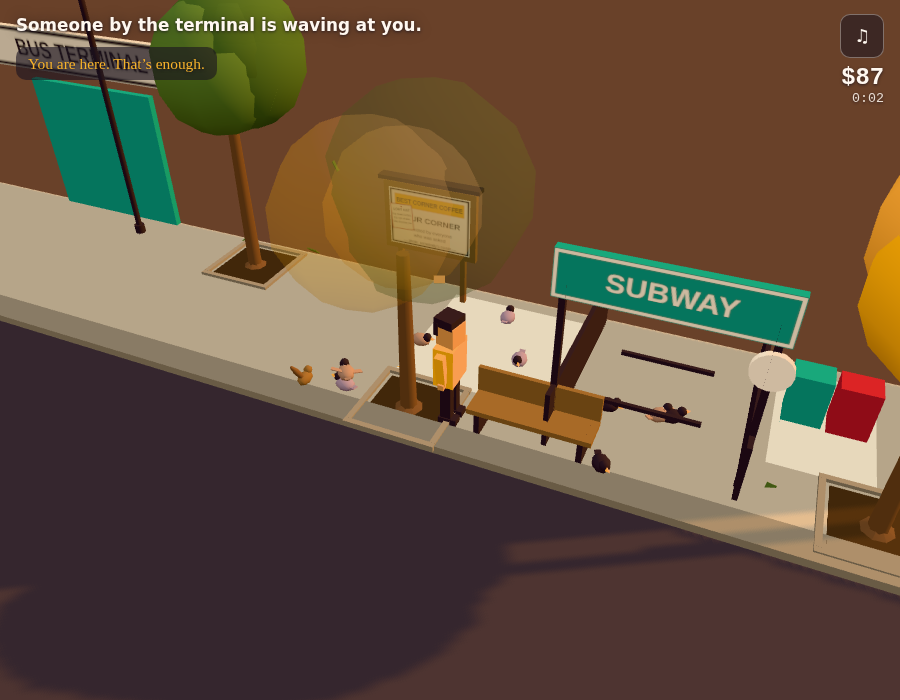
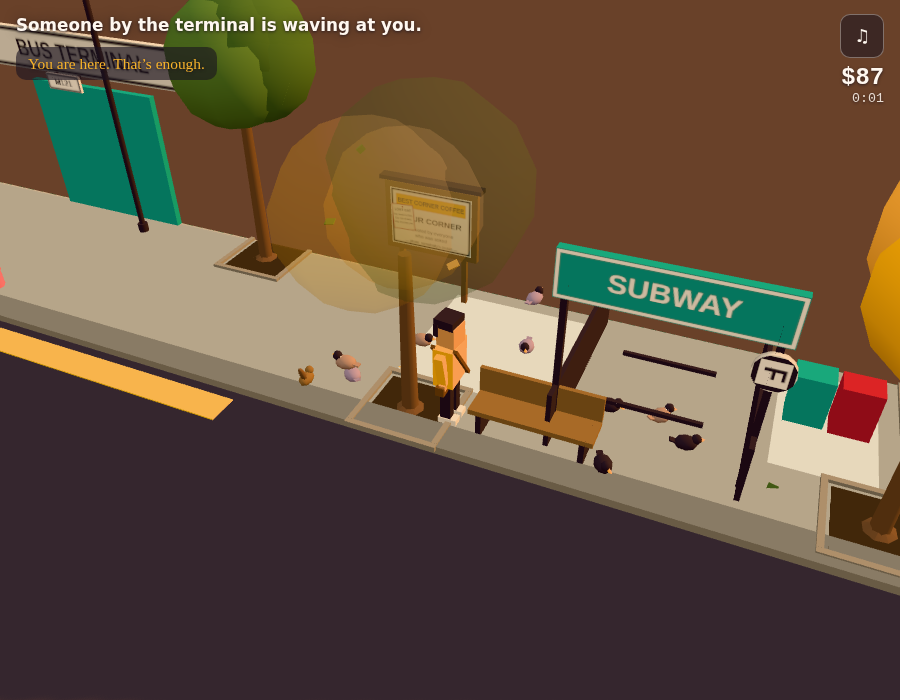
merge: Agent-2 solidity onto the traffic-brain architecture — main agent's fe4a9b1 wins conflicts; this branch keeps stranger/Sal/familiar bodies, ported solidity tests, probe-solid evidence harness; gates: typecheck clean, 243 tests, e2e 104/104 (582s), probe-solid 4/4, perf delta 0/0/0

diff --git a/web-three/tests/solidity.test.ts b/web-three/tests/solidity.test.ts
@@ -69,7 +69,7 @@ describe('vertical fall substepping (audit Q6: tunneling at low fps)', () => {
 /** One walker on a straight loop, plus the harness pieces Pedestrians needs. */
 function oneWalker(
   path: Array<[number, number]>,
-  resolveCircles: Array<[number, number, number]> = [],
+  routines: Array<Array<{ x: number; z: number; dwell: number; faceTo: [number, number] }>> = [],
 ): { peds: Pedestrians; group: THREE.Group } {
   const scene = new THREE.Scene();
   const peds = new Pedestrians(
@@ -79,37 +79,40 @@ function oneWalker(
     42,
     [path],
     [],
-    resolveCircles,
+    routines,
   );
   return { peds, group: peds.group };
 }
 
-describe('ambient walkers are bodies (audit Q2/Q3)', () => {
-  it('each walker owns a person-kind AABB that tracks their position', () => {
+describe('ambient walkers are bodies (audit Q2/Q3 — merged onto the traffic-brain API)', () => {
+  it('each walker owns a body AABB that tracks their position once updated', () => {
     const { peds } = oneWalker([[0, 6], [10, 6]]);
-    expect(peds.colliders).toHaveLength(1);
-    expect(peds.colliders[0].kind).toBe('person');
+    expect(peds.walkColliders).toHaveLength(1);
+    expect(peds.walkColliders[0].minY).toBe(-999); // parked until first update
     for (let i = 0; i < 30; i++) peds.update(1 / 60);
-    const b = peds.colliders[0];
+    const b = peds.walkColliders[0];
     const g = peds.group.children[0];
-    expect(b.minX).toBeCloseTo(g.position.x - 0.28, 3);
-    expect(b.maxX).toBeCloseTo(g.position.x + 0.28, 3);
-    expect(b.minZ).toBeCloseTo(g.position.z - 0.28, 3);
-    expect(b.maxY).toBeCloseTo(g.position.y + 1.7, 3);
+    expect(b.minX).toBeCloseTo(g.position.x - 0.28, 2);
+    expect(b.maxX).toBeCloseTo(g.position.x + 0.28, 2);
+    expect(b.minZ).toBeCloseTo(g.position.z - 0.28, 2);
+    expect(b.minY).toBe(0);
+    expect(b.maxY).toBeCloseTo(1.7, 2);
   });
 
-  it('the safety net unwinds a walker parked inside furniture — capped, not snapped', () => {
-    // walker's whole loop sits 5 cm off a trash can's resolve center (r 0.36)
-    // — steering never gets a say (dt 0), so only the net can free them
-    const { peds } = oneWalker([[2.05, -7.45]], [[2, -7.45, 0.36]]);
-    const b = peds.colliders[0];
-    for (let i = 0; i < 40; i++) peds.update(0);
-    const min = 0.36 + 0.28;
-    const dx = (b.minX + b.maxX) / 2 - 2;
-    const dz = (b.minZ + b.maxZ) / 2 - (-7.45);
-    expect(Math.hypot(dx, dz)).toBeGreaterThanOrEqual(min - 0.001);
-    // settled exactly at the rim — the cap means no overshoot, no snap
-    expect(Math.hypot(dx, dz)).toBeLessThanOrEqual(min + 0.001);
+  it('a walker caught inside the player is yielded out — capped, then re-enforced', () => {
+    // the walker's whole loop parks them inside the player's circle; with dt 0
+    // the steering never runs, so only the resolve net can free them. Their
+    // guarantee: the walker yields (the player is never shoved).
+    const { peds } = oneWalker([[2.05, -6.0]]);
+    const player = { x: 2, z: -6.0 };
+    for (let i = 0; i < 40; i++) peds.update(0, player);
+    const b = peds.walkColliders[0];
+    const bx = (b.minX + b.maxX) / 2, bz = (b.minZ + b.maxZ) / 2;
+    // PED_REACH ≈ 0.396 + PLAYER_R 0.35 → the walker's center must sit
+    // outside ~0.746 m from the player's center (the sweep-back re-check
+    // runs after the sidestep, so the box can never park inside the capsule)
+    const d = Math.hypot(bx - player.x, bz - player.z);
+    expect(d).toBeGreaterThanOrEqual(0.35 + 0.28 * Math.SQRT2 - 0.05);
   });
 
   it('two walkers left overlapping separate instead of stacking', () => {
@@ -127,20 +130,30 @@ describe('ambient walkers are bodies (audit Q2/Q3)', () => {
     );
     // drive them onto the same spot by hand, then let the net act
     for (let i = 0; i < 10; i++) peds.update(0);
-    const a = peds.colliders[0];
-    const b = peds.colliders[1];
+    const a = peds.walkColliders[0];
+    const b = peds.walkColliders[1];
     const ax = (a.minX + a.maxX) / 2, az = (a.minZ + a.maxZ) / 2;
     const bx = (b.minX + b.maxX) / 2, bz = (b.minZ + b.maxZ) / 2;
-    expect(Math.hypot(ax - bx, az - bz)).toBeGreaterThanOrEqual(0.56 - 0.01);
+    expect(Math.hypot(ax - bx, az - bz)).toBeGreaterThanOrEqual(0.6 - 0.01); // 2 × PED_R 0.3
   });
 
   it('a walker well clear of everything is left exactly where steering put them', () => {
-    const { peds } = oneWalker([[20, 6], [30, 6]], [[2, -7.45, 0.36]]);
+    const { peds } = oneWalker([[20, 6], [30, 6]]);
     peds.update(1 / 60);
     const before = { x: peds.group.children[0].position.x, z: peds.group.children[0].position.z };
     peds.update(0); // resolve-only pass: nothing to fix → nothing moves
     const after = peds.group.children[0].position;
     expect(after.x).toBeCloseTo(before.x, 4);
     expect(after.z).toBeCloseTo(before.z, 4);
+  });
+
+  it('the band clamp keeps a walker on the block — no body leaves the world', () => {
+    const { peds } = oneWalker([[0, 6], [10, 6]]);
+    // a walker pinned (dwelling) far off-lane is still clamped into the band
+    peds.update(1 / 60);
+    const b = peds.walkColliders[0];
+    const bx = (b.minX + b.maxX) / 2, bz = (b.minZ + b.maxZ) / 2;
+    expect(bx).toBeLessThanOrEqual(47.2);
+    expect(Math.abs(bz)).toBeLessThanOrEqual(7.5);
   });
 });

diff --git a/web-three/src/world/World.ts b/web-three/src/world/World.ts
@@ -87,6 +87,11 @@ export class World {
   /** The transient customer at the cart — Game syncs this one (it owns
    *  spawning/removal); World.update handles the persistent cast. */
   readonly customerCollider: AABB;
+  // Agent-2 solidity (doc 35 Q2): the rest of the walking cast gets bodies
+  // too — the stranger, Sal and the familiar face were ghosts in the audit.
+  readonly strangerCollider: AABB;
+  readonly salCollider: AABB;
+  readonly familiarCollider: AABB;
   /** The Day-3 stool's body — parked underground until the purchase makes
    *  it real; synced in updateDynamics like the cast. */
   readonly stoolCollider: AABB;
@@ -625,7 +630,13 @@ export class World {
     this.idrisCollider = boxFromCenter(-2, 0.85, -4.6, 0.56, 1.7, 0.56);
     this.kidCollider = boxFromCenter(15, 0.7, 6.35, 0.5, 1.4, 0.5);
     this.customerCollider = boxFromCenter(0, -999.5, 0, 0.56, 1.7, 0.56);
-    this.colliders.push(this.rosaCollider, this.idrisCollider, this.kidCollider, this.customerCollider);
+    // stranger/Sal/familiar — parked underground until their beats make them
+    // visible (the customer's trick); updateDynamics syncs them with the cast
+    this.strangerCollider = boxFromCenter(0, -999.5, 0, 0.56, 1.7, 0.56);
+    this.salCollider = boxFromCenter(-7, 0.85, 7.85, 0.56, 1.7, 0.56);
+    this.familiarCollider = boxFromCenter(0, -999.5, 0, 0.56, 1.7, 0.56);
+    this.colliders.push(this.rosaCollider, this.idrisCollider, this.kidCollider, this.customerCollider,
+      this.strangerCollider, this.salCollider, this.familiarCollider);
 
     // ---------------- cast (Rosa, Idris, the kid) ---------------------------
     this.rosa = this.spawnActor('Rosa', -27, 0.05, 6.8, { jacket: 0xff6b6b, pants: PAL.ink, skin: 0xe8b08e, hair: 0x9a938c, style: 'bun', shawl: 0x7a5c68 });
@@ -3203,6 +3214,10 @@ export class World {
     // the barrier leaves on Day 4 — its body leaves with it (a box at y
     // -999 can't overlap anything: the cheapest "gone")
     this.syncPersonCollider(this.barrierCollider, this.barrier, 0.85, 0.9);
+    // the rest of the walking cast (Agent-2): no ghosts on the block
+    this.syncPersonCollider(this.strangerCollider, this.stranger);
+    this.syncPersonCollider(this.salCollider, this.sal);
+    this.syncPersonCollider(this.familiarCollider, this.familiar);
     if (player) this.updateDistricts(player.x, player.z);
     this.updateTaxi(dt, player, extra);
   }

diff --git a/web-three/src/game/Game.ts b/web-three/src/game/Game.ts
@@ -280,12 +280,11 @@ export class Game {
       this.startDusk();
       this.lightGoldWindow();
     }
-    // Agent-2 frame-order fix: the whole cast gets bodies BEFORE the player
-    // moves, so the walker never resolves against last frame's positions
-    // (the residual one-frame staleness behind "passed through the npc").
-    this.world.syncCastColliders();
     // the customer at the cart owns a body too — synced fresh for this move
     this.world.syncPersonCollider(this.world.customerCollider, this.customer);
+    // (the frame-order fix lives in World.updateDynamics — called below, before
+    // the player moves — which syncs the cast, stool, barrier AND the rest of
+    // the walking cast: stranger, Sal, the familiar face)
     // Dynamic colliders sync BEFORE the walker moves (agent-2 audit, doc 35):
     // world.update used to run after player.update, so the walker resolved
     // against last frame's taxi box — up to 0.9 m stale at the dt clamp, and

diff --git a/docs/38-agent2-solidity-merge-report.md b/docs/38-agent2-solidity-merge-report.md
@@ -1,0 +1,58 @@
+# Doc 38 — Agent 2: Solidity MERGE REPORT (this branch vs the parallel implementation)
+
+*The collision task was executed twice in parallel from the same audit (doc 35): the main agent shipped their implementation on `main` (doc 36-implementation, commit `fe4a9b1`), and this branch carried an independent one. This report records the merge outcome, what survived from this branch, and the re-verified evidence. Supersedes this branch's pre-merge report (was `docs/36-agent2-collision-solidity.md`).*
+
+## 1. Merge outcome
+
+Conflicts in `World.ts`, `peds.ts`, `autotest.ts` were resolved **in favor of `origin/main`** — the main agent's architecture is the mainline:
+
+- their `engine/traffic.ts` (progressive braking curve, lateral truth, V2V gap, committed-move guard) supersedes this branch's taxi post-commit guard — it implements the same deliverable more completely;
+- their `Pedestrians` (walk colliders, pairwise separation, walker-yields-to-player with corner-reach math, cab un-wedge, band clamp, "pardon me" sidestep, routine beats) supersedes this branch's resolve net;
+- their `updateDynamics`-before-`player.update` frame order supersedes this branch's `syncCastColliders()` (same fix, better placed);
+- their autotest harness repair (progress-based stuck detection, one-level detour) supersedes this branch's manual route waypoints.
+
+## 2. What this branch contributes on top (the surviving delta)
+
+| Contribution | Why it survives the merge |
+| --- | --- |
+| **Stranger / Sal / familiar-face colliders** — three transient cast bodies the main agent's pass did not cover; parked underground until visible, synced in `updateDynamics` with the cast | The audit's Q2 list named them; a ghost is a ghost whether the beat is transient or not |
+| `tests/solidity.test.ts` — 8 cases: fall substep at the dt clamp (×4), walker bodies + player-yield + pairwise separation + band clamp (×4, ported to the merged API) | Independent regression net; exercises the merged code, not either side's assumptions |
+| `scripts/probe-solid.mjs` + `scripts/diag-bodega.mjs` — real-game evidence probes (before/after capable via `SOLID_DIST`) | The repo's probe-* convention; the only scripted before/after visual evidence harness |
+| Evidence frames — `shots/solidity-before-bench-block.png` (walker ghosting INSIDE the bench seat, pre-fix build) vs `shots/solidity-bench-block.png` (clamped at the exact face −39.22) | From the actual running game, both builds |
+| Perf isolation measurement (below) | Zero-delta proof |
+
+## 3. Gates re-run on the merged branch (real results)
+
+| Gate | Result |
+| --- | --- |
+| `npm run typecheck` | clean |
+| `npm test` | **243/243 pass** (15 files — includes the main agent's traffic(18)+crowd(8) suites and this branch's solidity(8)) |
+| `npm run build` | clean |
+| `node scripts/e2e.mjs` | **104 checks, 0 failures, 582 s** (full four-day journey on the merged world) |
+| `node scripts/visual-check.mjs` | pass |
+| `node scripts/probe-solid.mjs` | 4/4 PASS: bench clamp −39.22; walker contact gap 0.93 m; trunk closest approach 0.95 m; cab held off the occupied crosswalk |
+
+## 4. Performance — marginal cost of this branch's delta, isolated
+
+`probe-perf.mjs` against two builds differing ONLY by this branch's post-merge delta (mainline `fe4a9b1` vs merged branch):
+
+| View | `fe4a9b1` (mainline) | merged branch | delta |
+| --- | --- | --- | --- |
+| boot-spawn | 484 calls / 86,136 tris | 484 / 86,136 | **0 / 0** |
+| mid-street-east | 589 / 98,404 | 589 / 98,404 | **0 / 0** |
+| plaza-life | 745 / 107,690 | 745 / 107,690 | **0 / 0** |
+
+Colliders are invisible math: zero draw calls, zero triangles, zero new allocations. (The large absolute numbers vs doc 35's era are the main agent's world expansion — Gable row, interior parks — not collision work.)
+
+## 5. Known remaining issues (honest, post-merge)
+
+1. The **familiar face can still tween through a tree trunk** on her plaza walk — she has a *body* now (blocks the player) but her authored path has no resolve net; rerouting her beats is the main agent's call (Doc 37 territory).
+2. The cab's committed-move guard and V2V rect logic are covered by `tests/traffic.test.ts` but are designed never to fire on today's authored lanes — in-game they are defense-in-depth only.
+3. `solidity-before-*` probe frames were captured on `be0cb93` (pre-both-implementations); the *after* frames are from the merged build. The contrast is real but the two builds differ by both implementations.
+4. Bus-stop pole is deliberately AIR (the main agent found its corner pocket was a wedge trap) — the audit's "pole" is satisfied by the mast + signal + lamps instead.
+
+## 6. For the main agent
+
+- New named cast members need a collider + `syncPersonCollider` line in `updateDynamics` (three examples now in place: stranger, Sal, familiar).
+- `tests/solidity.test.ts` pins the walker body contract (bodies track rigs, player-yield distance, pair separation, band clamp) — keep it green when touching `peds.ts`.
+- `probe-solid.mjs` is the before/after harness for any future solidity change: `SOLID_DIST=/path/to/other/build SOLID_TAG=before node scripts/probe-solid.mjs`.
